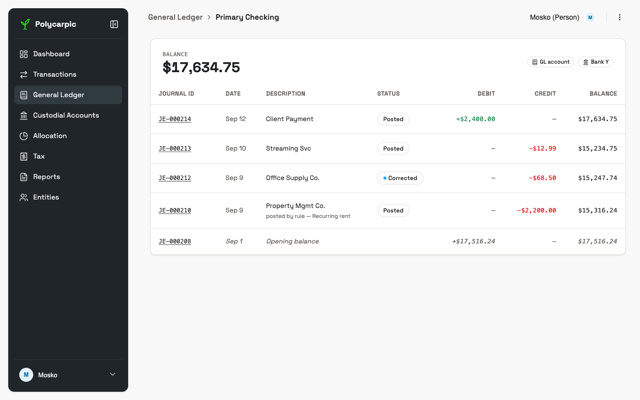
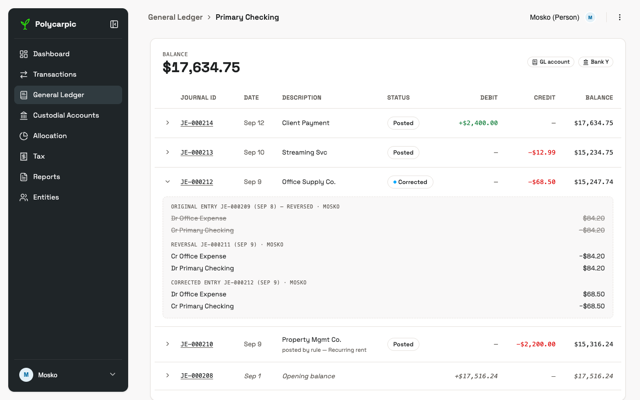
docs(design): register lines expand to the full journal entry
Every line carries the GL card's chevron and legs block; the Corrected
row is drawn open. The block labels name the actor, since the register
has no Actor column. The Journal ID link to the GL stays.

Claude-Session: https://claude.ai/code/session_01ShccjG1wcP7yWMxMF1bSx8

diff --git a/docs/DESIGN/styled-screens/account-register.html b/docs/DESIGN/styled-screens/account-register.html
@@ -8,7 +8,7 @@
 <link rel="stylesheet" href="../screen.css">
 </head>
 <body>
-<!-- Account register (pass 7; styled pass 13). Drill-down from the General Ledger, so the breadcrumb is the multi-crumb example. Most recent first, like Transactions. Each row opens its full journal entry (header + every leg, not just this account's) and leads with that entry's Journal ID, copied on hover; the ID links to the entry's row on the General Ledger Journal entries card. A rule-posted row carries the same Correct entry action as any other posted row. -->
+<!-- Account register (pass 7; styled pass 13). Drill-down from the General Ledger, so the breadcrumb is the multi-crumb example. Most recent first, like Transactions. Each row's chevron opens its full journal entry in the same block as the General Ledger Journal entries card (every leg, not just this account's, plus the correction trail where one exists); the Corrected row is shown open as the reference. The block's labels name the actor, because this table has no Actor column. Each row leads with the entry's Journal ID, copied on hover; the ID links to the entry's row on the General Ledger Journal entries card. A rule-posted row carries the same Correct entry action as any other posted row. -->
 <div class="shell">
   <aside class="sidebar" id="app-sidebar">
     <!-- Brand row (pass 12, Gemini pattern): expanded = logo + wordmark,
@@ -65,17 +65,74 @@
         </div>
         <span style="display:flex; gap:8px;"><span class="badge badge-outline badge-sm"><span class="icon"><svg viewBox="0 0 24 24" fill="none" stroke="currentColor" stroke-width="2" stroke-linecap="round" stroke-linejoin="round"><path d="M4 19.5A2.5 2.5 0 0 1 6.5 17H20"/><path d="M6.5 2H20v20H6.5A2.5 2.5 0 0 1 4 19.5v-15A2.5 2.5 0 0 1 6.5 2z"/><path d="M8 7h6"/><path d="M8 11h8"/></svg></span>GL account</span><span class="badge badge-outline badge-sm"><span class="icon"><svg viewBox="0 0 24 24" fill="none" stroke="currentColor" stroke-width="2" stroke-linecap="round" stroke-linejoin="round"><line x1="3" x2="21" y1="22" y2="22"/><line x1="6" x2="6" y1="18" y2="11"/><line x1="10" x2="10" y1="18" y2="11"/><line x1="14" x2="14" y1="18" y2="11"/><line x1="18" x2="18" y1="18" y2="11"/><polygon points="12 2 20 7 4 7"/></svg></span>Bank Y</span></span>
       </div>
+      <div class="je-body">
       <div class="table-wrap">
       <table class="data-table">
-        <thead><tr><th>Journal ID</th><th>Date</th><th>Description</th><th>Status</th><th class="num">Debit</th><th class="num">Credit</th><th class="num">Balance</th></tr></thead>
+        <thead><tr><th aria-label="Expand"></th><th>Journal ID</th><th>Date</th><th>Description</th><th>Status</th><th class="num">Debit</th><th class="num">Credit</th><th class="num">Balance</th></tr></thead>
         <tbody>
-          <tr><td><span class="je-id"><a class="je-link" href="general-ledger.html#je-000214" title="Open JE-000214 in General Ledger">JE-000214</a><button class="je-copy" type="button" data-id="JE-000214" title="Copy JE-000214" aria-label="Copy journal ID JE-000214"><svg class="je-copy-glyph" viewBox="0 0 24 24" fill="none" stroke="currentColor" stroke-width="2" stroke-linecap="round" stroke-linejoin="round" aria-hidden="true"><rect width="14" height="14" x="8" y="8" rx="2" ry="2"/><path d="M4 16c-1.1 0-2-.9-2-2V4c0-1.1.9-2 2-2h10c1.1 0 2 .9 2 2"/></svg><svg class="je-copied-glyph" viewBox="0 0 24 24" fill="none" stroke="currentColor" stroke-width="2" stroke-linecap="round" stroke-linejoin="round" aria-hidden="true"><path d="M20 6 9 17l-5-5"/></svg></button></span></td><td class="muted nowrap">Sep 12</td><td>Client Payment</td><td><span class="badge badge-outline">Posted</span></td><td class="amount positive">+$2,400.00</td><td class="amount muted">—</td><td class="amount">$17,634.75</td></tr>
-          <tr><td><span class="je-id"><a class="je-link" href="general-ledger.html#je-000213" title="Open JE-000213 in General Ledger">JE-000213</a><button class="je-copy" type="button" data-id="JE-000213" title="Copy JE-000213" aria-label="Copy journal ID JE-000213"><svg class="je-copy-glyph" viewBox="0 0 24 24" fill="none" stroke="currentColor" stroke-width="2" stroke-linecap="round" stroke-linejoin="round" aria-hidden="true"><rect width="14" height="14" x="8" y="8" rx="2" ry="2"/><path d="M4 16c-1.1 0-2-.9-2-2V4c0-1.1.9-2 2-2h10c1.1 0 2 .9 2 2"/></svg><svg class="je-copied-glyph" viewBox="0 0 24 24" fill="none" stroke="currentColor" stroke-width="2" stroke-linecap="round" stroke-linejoin="round" aria-hidden="true"><path d="M20 6 9 17l-5-5"/></svg></button></span></td><td class="muted nowrap">Sep 10</td><td>Streaming Svc</td><td><span class="badge badge-outline">Posted</span></td><td class="amount muted">—</td><td class="amount negative">−$12.99</td><td class="amount">$15,234.75</td></tr>
-          <tr><td><span class="je-id"><a class="je-link" href="general-ledger.html#je-000212" title="Open JE-000212 in General Ledger">JE-000212</a><button class="je-copy" type="button" data-id="JE-000212" title="Copy JE-000212" aria-label="Copy journal ID JE-000212"><svg class="je-copy-glyph" viewBox="0 0 24 24" fill="none" stroke="currentColor" stroke-width="2" stroke-linecap="round" stroke-linejoin="round" aria-hidden="true"><rect width="14" height="14" x="8" y="8" rx="2" ry="2"/><path d="M4 16c-1.1 0-2-.9-2-2V4c0-1.1.9-2 2-2h10c1.1 0 2 .9 2 2"/></svg><svg class="je-copied-glyph" viewBox="0 0 24 24" fill="none" stroke="currentColor" stroke-width="2" stroke-linecap="round" stroke-linejoin="round" aria-hidden="true"><path d="M20 6 9 17l-5-5"/></svg></button></span></td><td class="muted nowrap">Sep 9</td><td>Office Supply Co.</td><td><span class="badge badge-corrected"><span class="badge-dot"></span>Corrected</span></td><td class="amount muted">—</td><td class="amount negative">−$68.50</td><td class="amount">$15,247.74</td></tr>
-          <tr><td><span class="je-id"><a class="je-link" href="general-ledger.html#je-000210" title="Open JE-000210 in General Ledger">JE-000210</a><button class="je-copy" type="button" data-id="JE-000210" title="Copy JE-000210" aria-label="Copy journal ID JE-000210"><svg class="je-copy-glyph" viewBox="0 0 24 24" fill="none" stroke="currentColor" stroke-width="2" stroke-linecap="round" stroke-linejoin="round" aria-hidden="true"><rect width="14" height="14" x="8" y="8" rx="2" ry="2"/><path d="M4 16c-1.1 0-2-.9-2-2V4c0-1.1.9-2 2-2h10c1.1 0 2 .9 2 2"/></svg><svg class="je-copied-glyph" viewBox="0 0 24 24" fill="none" stroke="currentColor" stroke-width="2" stroke-linecap="round" stroke-linejoin="round" aria-hidden="true"><path d="M20 6 9 17l-5-5"/></svg></button></span></td><td class="muted nowrap">Sep 9</td><td>Property Mgmt Co.<div class="row-meta">posted by rule — Recurring rent</div></td><td><span class="badge badge-outline">Posted</span></td><td class="amount muted">—</td><td class="amount negative">−$2,200.00</td><td class="amount">$15,316.24</td></tr>
-          <tr class="opening"><td><span class="je-id"><a class="je-link" href="general-ledger.html#je-000208" title="Open JE-000208 in General Ledger">JE-000208</a><button class="je-copy" type="button" data-id="JE-000208" title="Copy JE-000208" aria-label="Copy journal ID JE-000208"><svg class="je-copy-glyph" viewBox="0 0 24 24" fill="none" stroke="currentColor" stroke-width="2" stroke-linecap="round" stroke-linejoin="round" aria-hidden="true"><rect width="14" height="14" x="8" y="8" rx="2" ry="2"/><path d="M4 16c-1.1 0-2-.9-2-2V4c0-1.1.9-2 2-2h10c1.1 0 2 .9 2 2"/></svg><svg class="je-copied-glyph" viewBox="0 0 24 24" fill="none" stroke="currentColor" stroke-width="2" stroke-linecap="round" stroke-linejoin="round" aria-hidden="true"><path d="M20 6 9 17l-5-5"/></svg></button></span></td><td class="nowrap">Sep 1</td><td>Opening balance</td><td></td><td class="amount">+$17,516.24</td><td class="amount">—</td><td class="amount">$17,516.24</td></tr>
+          <tr><td class="je-toggle-cell"><button class="alloc-disclosure je-toggle" type="button" aria-expanded="false" aria-controls="je-214" aria-label="Show the legs of JE-000214"><span class="icon icon-sm"><svg viewBox="0 0 24 24" fill="none" stroke="currentColor" stroke-width="2" stroke-linecap="round" stroke-linejoin="round" aria-hidden="true"><path d="m6 9 6 6 6-6"/></svg></span></button></td><td><span class="je-id"><a class="je-link" href="general-ledger.html#je-000214" title="Open JE-000214 in General Ledger">JE-000214</a><button class="je-copy" type="button" data-id="JE-000214" title="Copy JE-000214" aria-label="Copy journal ID JE-000214"><svg class="je-copy-glyph" viewBox="0 0 24 24" fill="none" stroke="currentColor" stroke-width="2" stroke-linecap="round" stroke-linejoin="round" aria-hidden="true"><rect width="14" height="14" x="8" y="8" rx="2" ry="2"/><path d="M4 16c-1.1 0-2-.9-2-2V4c0-1.1.9-2 2-2h10c1.1 0 2 .9 2 2"/></svg><svg class="je-copied-glyph" viewBox="0 0 24 24" fill="none" stroke="currentColor" stroke-width="2" stroke-linecap="round" stroke-linejoin="round" aria-hidden="true"><path d="M20 6 9 17l-5-5"/></svg></button></span></td><td class="muted nowrap">Sep 12</td><td>Client Payment</td><td><span class="badge badge-outline">Posted</span></td><td class="amount positive">+$2,400.00</td><td class="amount muted">—</td><td class="amount">$17,634.75</td></tr>
+          <tr class="je-expand" id="je-214" hidden>
+            <td colspan="8">
+              <div class="correction-trail">
+                <div class="trail-label">Entry JE-000214 (Sep 12) · Mosko</div>
+                <div class="trail-row"><span>Dr Primary Checking</span><span>$2,400.00</span></div>
+                <div class="trail-row"><span>Cr Revenue</span><span>−$2,400.00</span></div>
+                <div class="trail-actions"><button class="row-action">Correct entry</button></div>
+              </div>
+            </td>
+          </tr>
+          <tr><td class="je-toggle-cell"><button class="alloc-disclosure je-toggle" type="button" aria-expanded="false" aria-controls="je-213" aria-label="Show the legs of JE-000213"><span class="icon icon-sm"><svg viewBox="0 0 24 24" fill="none" stroke="currentColor" stroke-width="2" stroke-linecap="round" stroke-linejoin="round" aria-hidden="true"><path d="m6 9 6 6 6-6"/></svg></span></button></td><td><span class="je-id"><a class="je-link" href="general-ledger.html#je-000213" title="Open JE-000213 in General Ledger">JE-000213</a><button class="je-copy" type="button" data-id="JE-000213" title="Copy JE-000213" aria-label="Copy journal ID JE-000213"><svg class="je-copy-glyph" viewBox="0 0 24 24" fill="none" stroke="currentColor" stroke-width="2" stroke-linecap="round" stroke-linejoin="round" aria-hidden="true"><rect width="14" height="14" x="8" y="8" rx="2" ry="2"/><path d="M4 16c-1.1 0-2-.9-2-2V4c0-1.1.9-2 2-2h10c1.1 0 2 .9 2 2"/></svg><svg class="je-copied-glyph" viewBox="0 0 24 24" fill="none" stroke="currentColor" stroke-width="2" stroke-linecap="round" stroke-linejoin="round" aria-hidden="true"><path d="M20 6 9 17l-5-5"/></svg></button></span></td><td class="muted nowrap">Sep 10</td><td>Streaming Svc</td><td><span class="badge badge-outline">Posted</span></td><td class="amount muted">—</td><td class="amount negative">−$12.99</td><td class="amount">$15,234.75</td></tr>
+          <tr class="je-expand" id="je-213" hidden>
+            <td colspan="8">
+              <div class="correction-trail">
+                <div class="trail-label">Entry JE-000213 (Sep 10) · Mosko</div>
+                <div class="trail-row"><span>Dr Subscriptions</span><span>$12.99</span></div>
+                <div class="trail-row"><span>Cr Primary Checking</span><span>−$12.99</span></div>
+                <div class="trail-actions"><button class="row-action">Correct entry</button></div>
+              </div>
+            </td>
+          </tr>
+          <tr><td class="je-toggle-cell"><button class="alloc-disclosure je-toggle" type="button" aria-expanded="true" aria-controls="je-212" aria-label="Show the legs of JE-000212"><span class="icon icon-sm"><svg viewBox="0 0 24 24" fill="none" stroke="currentColor" stroke-width="2" stroke-linecap="round" stroke-linejoin="round" aria-hidden="true"><path d="m6 9 6 6 6-6"/></svg></span></button></td><td><span class="je-id"><a class="je-link" href="general-ledger.html#je-000212" title="Open JE-000212 in General Ledger">JE-000212</a><button class="je-copy" type="button" data-id="JE-000212" title="Copy JE-000212" aria-label="Copy journal ID JE-000212"><svg class="je-copy-glyph" viewBox="0 0 24 24" fill="none" stroke="currentColor" stroke-width="2" stroke-linecap="round" stroke-linejoin="round" aria-hidden="true"><rect width="14" height="14" x="8" y="8" rx="2" ry="2"/><path d="M4 16c-1.1 0-2-.9-2-2V4c0-1.1.9-2 2-2h10c1.1 0 2 .9 2 2"/></svg><svg class="je-copied-glyph" viewBox="0 0 24 24" fill="none" stroke="currentColor" stroke-width="2" stroke-linecap="round" stroke-linejoin="round" aria-hidden="true"><path d="M20 6 9 17l-5-5"/></svg></button></span></td><td class="muted nowrap">Sep 9</td><td>Office Supply Co.</td><td><span class="badge badge-corrected"><span class="badge-dot"></span>Corrected</span></td><td class="amount muted">—</td><td class="amount negative">−$68.50</td><td class="amount">$15,247.74</td></tr>
+          <tr class="je-expand" id="je-212">
+            <td colspan="8">
+              <div class="correction-trail">
+                <div class="trail-label">Original entry JE-000209 (Sep 8) — reversed · Mosko</div>
+                <div class="trail-row struck"><span>Dr Office Expense</span><span>$84.20</span></div>
+                <div class="trail-row struck"><span>Cr Primary Checking</span><span>−$84.20</span></div>
+                <div class="trail-label">Reversal JE-000211 (Sep 9) · Mosko</div>
+                <div class="trail-row"><span>Cr Office Expense</span><span>−$84.20</span></div>
+                <div class="trail-row"><span>Dr Primary Checking</span><span>$84.20</span></div>
+                <div class="trail-label">Corrected entry JE-000212 (Sep 9) · Mosko</div>
+                <div class="trail-row"><span>Dr Office Expense</span><span>$68.50</span></div>
+                <div class="trail-row"><span>Cr Primary Checking</span><span>−$68.50</span></div>
+              </div>
+            </td>
+          </tr>
+          <tr><td class="je-toggle-cell"><button class="alloc-disclosure je-toggle" type="button" aria-expanded="false" aria-controls="je-210" aria-label="Show the legs of JE-000210"><span class="icon icon-sm"><svg viewBox="0 0 24 24" fill="none" stroke="currentColor" stroke-width="2" stroke-linecap="round" stroke-linejoin="round" aria-hidden="true"><path d="m6 9 6 6 6-6"/></svg></span></button></td><td><span class="je-id"><a class="je-link" href="general-ledger.html#je-000210" title="Open JE-000210 in General Ledger">JE-000210</a><button class="je-copy" type="button" data-id="JE-000210" title="Copy JE-000210" aria-label="Copy journal ID JE-000210"><svg class="je-copy-glyph" viewBox="0 0 24 24" fill="none" stroke="currentColor" stroke-width="2" stroke-linecap="round" stroke-linejoin="round" aria-hidden="true"><rect width="14" height="14" x="8" y="8" rx="2" ry="2"/><path d="M4 16c-1.1 0-2-.9-2-2V4c0-1.1.9-2 2-2h10c1.1 0 2 .9 2 2"/></svg><svg class="je-copied-glyph" viewBox="0 0 24 24" fill="none" stroke="currentColor" stroke-width="2" stroke-linecap="round" stroke-linejoin="round" aria-hidden="true"><path d="M20 6 9 17l-5-5"/></svg></button></span></td><td class="muted nowrap">Sep 9</td><td>Property Mgmt Co.<div class="row-meta">posted by rule — Recurring rent</div></td><td><span class="badge badge-outline">Posted</span></td><td class="amount muted">—</td><td class="amount negative">−$2,200.00</td><td class="amount">$15,316.24</td></tr>
+          <tr class="je-expand" id="je-210" hidden>
+            <td colspan="8">
+              <div class="correction-trail">
+                <div class="trail-label">Entry JE-000210 (Sep 9) · Rule, Recurring rent</div>
+                <div class="trail-row"><span>Dr Rent</span><span>$2,200.00</span></div>
+                <div class="trail-row"><span>Cr Primary Checking</span><span>−$2,200.00</span></div>
+                <div class="trail-actions"><button class="row-action">Correct entry</button></div>
+              </div>
+            </td>
+          </tr>
+          <tr class="opening"><td class="je-toggle-cell"><button class="alloc-disclosure je-toggle" type="button" aria-expanded="false" aria-controls="je-208" aria-label="Show the legs of JE-000208"><span class="icon icon-sm"><svg viewBox="0 0 24 24" fill="none" stroke="currentColor" stroke-width="2" stroke-linecap="round" stroke-linejoin="round" aria-hidden="true"><path d="m6 9 6 6 6-6"/></svg></span></button></td><td><span class="je-id"><a class="je-link" href="general-ledger.html#je-000208" title="Open JE-000208 in General Ledger">JE-000208</a><button class="je-copy" type="button" data-id="JE-000208" title="Copy JE-000208" aria-label="Copy journal ID JE-000208"><svg class="je-copy-glyph" viewBox="0 0 24 24" fill="none" stroke="currentColor" stroke-width="2" stroke-linecap="round" stroke-linejoin="round" aria-hidden="true"><rect width="14" height="14" x="8" y="8" rx="2" ry="2"/><path d="M4 16c-1.1 0-2-.9-2-2V4c0-1.1.9-2 2-2h10c1.1 0 2 .9 2 2"/></svg><svg class="je-copied-glyph" viewBox="0 0 24 24" fill="none" stroke="currentColor" stroke-width="2" stroke-linecap="round" stroke-linejoin="round" aria-hidden="true"><path d="M20 6 9 17l-5-5"/></svg></button></span></td><td class="nowrap">Sep 1</td><td>Opening balance</td><td></td><td class="amount">+$17,516.24</td><td class="amount">—</td><td class="amount">$17,516.24</td></tr>
+          <tr class="je-expand" id="je-208" hidden>
+            <td colspan="8">
+              <div class="correction-trail">
+                <div class="trail-label">Entry JE-000208 (Sep 1) · System</div>
+                <div class="trail-row"><span>Dr Primary Checking</span><span>$17,516.24</span></div>
+                <div class="trail-row"><span>Cr Owner's Equity</span><span>−$17,516.24</span></div>
+                <div class="trail-actions"><button class="row-action">Correct entry</button></div>
+              </div>
+            </td>
+          </tr>
         </tbody>
       </table>
+      </div>
       </div>
     </div>
   </main>
@@ -88,6 +145,13 @@ document.addEventListener('click', (e) => {
   navigator.clipboard?.writeText(btn.dataset.id);
   btn.classList.add('copied');
   setTimeout(() => btn.classList.remove('copied'), 1200);
+});
+document.addEventListener('click', (e) => {
+  const btn = e.target.closest('.je-toggle');
+  if (!btn) return;
+  const open = btn.getAttribute('aria-expanded') !== 'true';
+  btn.setAttribute('aria-expanded', open);
+  document.getElementById(btn.getAttribute('aria-controls')).hidden = !open;
 });
 </script>
 </body>

diff --git a/docs/DESIGN/index.html b/docs/DESIGN/index.html
@@ -442,8 +442,7 @@ flowchart TD
   act -- open an account --> register[Account register:\nevery line that hit it,\ndate order, running balance]
   map -- click a tile --> register
   act -- custodial badge --> custodial([Custodial Accounts:\nthe mirrored physical account])
-  register --> line[Click a register line]
-  line --> entry([Journal entry:\nevery leg, actor,\nCorrect entry action])
+  register -- line chevron --> entry([Journal entry, expanded in place:\nevery leg, actor,\nCorrect entry action])
   register -- breadcrumb --> tree
   tree --> journal[Journal entries card:\nby date, page size,\ndate range, sort]
   journal -- click opens the entry --> entry
@@ -455,7 +454,7 @@ flowchart TD
     <li><strong>The tree is the GL's own view:</strong> every balance is the ledger's figure. The custodial badge (<code>landmark</code> icon + institution) is a cross-reference to Custodial Accounts, never a second data source; accounts with no physical counterpart (Owner's Equity, Cash in Transit) carry none.</li>
     <li><strong>The tree is a titled card,</strong> "Chart of accounts", with the same header as the Balance sheet map.</li>
     <li><strong>The register is account-scoped and running-balance-shaped;</strong> Transactions is entry-scoped and time-ordered across every account. Different questions, deliberately two screens.</li>
-    <li><strong>A register line opens its full journal entry</strong> — every leg, not just the one that hit this account — with actor attribution and the Correct entry action (flow 5.3).</li>
+    <li><strong>A register line expands to its full journal entry</strong> in the same block as the Journal entries card: every leg, not just the one that hit this account, plus the correction trail where one exists, with actor attribution and the Correct entry action (flow 5.3). Its Journal ID links to the GL card.</li>
     <li><strong>Balance sheet map (prototype):</strong> a nested treemap card above the tree, Assets | Liabilities + Equity as equal halves, each element in its fixed categorical slot; each tile opens its register. Recommendation and limits: design-system-spec.md § General Ledger → Treemap prototype.</li>
     <li><strong>Journal entries card:</strong> below the tree, every posted entry header for the entity, newest first, with page size, date range (default This month, by ruling) and sort. A chevron opens the legs in the same block as Transactions' Posted card. It lists a correction's three entries as three rows; the Posted card rolls them into one.</li>
     <li><strong>Journal ID:</strong> a short per-entity display number, <code>JE-000214</code>, assigned at posting and distinct from the UUID key: gapless, serialized per entity, never reused. It leads the Journal entries card, the Posted card and the register, copied on hover, so any entry can be cited exactly.</li>
@@ -522,7 +521,7 @@ flowchart TD
     <figure class="screen-card"><a href="styled-screens/dashboard.html"><img src="styled-screens/thumbs/dashboard.png" alt="Dashboard screen"></a><figcaption><a href="styled-screens/dashboard.html">Dashboard</a><span>Per-entity financial health: net worth, accounts, summary, empty tax/allocation cards.</span></figcaption></figure>
     <figure class="screen-card"><a href="styled-screens/transactions.html"><img src="styled-screens/thumbs/transactions.png" alt="Transactions screen"></a><figcaption><a href="styled-screens/transactions.html">Transactions</a><span>Exceptions / Pending / Posted accordions; the Plaid review-and-match inbox, split grid, bulk bar, Posted rows led by Journal ID, journal-entry modal.</span></figcaption></figure>
     <figure class="screen-card"><a href="styled-screens/general-ledger.html"><img src="styled-screens/thumbs/general-ledger.png" alt="General Ledger screen"></a><figcaption><a href="styled-screens/general-ledger.html">General Ledger</a><span>Balance-sheet treemap (prototype), then the Chart of accounts card with custodial cross-reference badges, each account opening its register, then the Journal entries card with page size, date range and sort.</span></figcaption></figure>
-    <figure class="screen-card"><a href="styled-screens/account-register.html"><img src="styled-screens/thumbs/account-register.png" alt="Account register screen"></a><figcaption><a href="styled-screens/account-register.html">Account register</a><span>Drill-down from the GL: multi-crumb breadcrumb, Journal ID plus Dr/Cr/running-balance table, Corrected and rule-posted rows.</span></figcaption></figure>
+    <figure class="screen-card"><a href="styled-screens/account-register.html"><img src="styled-screens/thumbs/account-register.png" alt="Account register screen"></a><figcaption><a href="styled-screens/account-register.html">Account register</a><span>Drill-down from the GL: multi-crumb breadcrumb, Journal ID plus Dr/Cr/running-balance table, each line expanding to its full entry; Corrected and rule-posted rows.</span></figcaption></figure>
     <figure class="screen-card"><a href="styled-screens/custodial-accounts.html"><img src="styled-screens/thumbs/custodial-accounts.png" alt="Custodial Accounts screen"></a><figcaption><a href="styled-screens/custodial-accounts.html">Custodial Accounts</a><span>Totals card, then per-account cards: market value, book value and cash side by side, link health, reconciliation, a lots sub-card; the provider-item dialog shown open.</span></figcaption></figure>
     <figure class="screen-card"><a href="styled-screens/allocation.html"><img src="styled-screens/thumbs/allocation.png" alt="Allocation screen"></a><figcaption><a href="styled-screens/allocation.html">Allocation</a><span>Actual vs. target by asset class with target markers, each class pulling down to its sub-categories and drilling to its lots; two-level target editor.</span></figcaption></figure>
     <figure class="screen-card"><a href="styled-screens/tax.html"><img src="styled-screens/thumbs/tax.png" alt="Tax screen"></a><figcaption><a href="styled-screens/tax.html">Tax</a><span>Per entity and jurisdiction: pending liability and safe-harbor gap side by side, status tier, installment timeline, prepaid-tax account; Post your payment.</span></figcaption></figure>

diff --git a/docs/DESIGN/design-system-spec.md b/docs/DESIGN/design-system-spec.md
@@ -389,7 +389,7 @@ Settings/Notifications carry a `.proposed-tag` badge in the styled screens — v
 |---|---|---|---|
 | 1 | **Dashboard** | — | Cross-cutting summary — net worth, cash flow, tax, allocation snapshot. |
 | 2 | **Transactions** | the journal and import status | The time-ordered journal: three accordion cards in urgency order — Exceptions, Pending, Posted. The Pending card is the bank-feed review/match inbox (see § Transactions workflow). An **account filter** above the cards scopes all three at once; the sidebar lands on **All Transactions** (every custodial account), and the popover lists the custodial accounts as Custodial Accounts names them. Every row carries a muted **source line** under the payee — `landmark` icon + `<account> · <institution> via <provider>` — omitted when the filter names one account. Posted rows lead with the **Journal ID** (§ General Ledger: tree & register). Import stats/status and the Sync Transactions / New entry actions live here; there is no separate "Import" item. Not the chart of accounts; see General Ledger for that. |
-| 3 | **General Ledger** | the GL side of accounts | Opens to a chart-of-accounts **tree** (category → account → sub-account, balances, a custodial marker on accounts that mirror a physical account). Clicking an account opens that account's **register** — a separate page, breadcrumbed back to the tree — showing every line that hit it, in date order, with a running balance; each line links to its full journal entry. Below the tree, a **Journal entries** card lists every posted entry header for the entity by date, with page size, date range and sort. The register is account-scoped and running-balance-shaped; Transactions is entry-scoped and time-ordered — genuinely different questions, not two views of one screen. |
+| 3 | **General Ledger** | the GL side of accounts | Opens to a chart-of-accounts **tree** (category → account → sub-account, balances, a custodial marker on accounts that mirror a physical account). Clicking an account opens that account's **register** — a separate page, breadcrumbed back to the tree — showing every line that hit it, in date order, with a running balance; each line expands to its full journal entry, and its Journal ID links to the GL card. Below the tree, a **Journal entries** card lists every posted entry header for the entity by date, with page size, date range and sort. The register is account-scoped and running-balance-shaped; Transactions is entry-scoped and time-ordered — genuinely different questions, not two views of one screen. |
 | 4 | **Custodial Accounts** | the physical side of accounts, and securities | The physical-account view — per-institution cards, each showing **market value (EOD prices), book value (GL cost basis) and cash balance side by side, left to right, with Unrealized**, plus reconciliation status against the GL; a totals card sums the three figures across accounts. Each account that holds securities has a **lots sub-card**: a pull-down per security showing its lots and short/long/total current gain or loss, summed per security and per account. New custodial accounts and provider links are created via a New provider item dialog on this screen (aggregator, manual, or file-import source type; a discovered-account mapping step; token refresh; unlink, with the ≤24h revocation-lag note on the Vercel target). Link health (expired token, lost access, stale) shows as a badge on the card and a banner on Transactions. Sync here pulls positions and balances. |
 | 5 | **Allocation** | allocation vs. target | A dedicated actual-vs-target page. |
 | 6 | **Tax** | the tax liability view | Per entity and jurisdiction: pending liability, the safe-harbor gap and its status tier, next due date, the custodial prepaid-tax account, the year's installment timeline, and the "Post your payment" action (never "Pay"). The Dashboard's Pending tax liability card links here (§ Allocation, Reports & Settings → Tax; flow 5.4). |
@@ -482,7 +482,7 @@ Any gate failure keeps the item in Pending — there is no partial post and no s
 General Ledger opens to a **chart-of-accounts tree** in a titled card, "Chart of accounts", with the same card header as the Balance sheet map above it — category → account → sub-account, each row showing its balance. Clicking an account opens that account's **register** as its own page, breadcrumbed back to the tree. Below the tree sits the **Journal entries** card.
 
 - **The custodial marker.** A tree row for a GL account that mirrors a physical custodial account (e.g. "Primary Checking") carries a small custodial badge (`landmark` icon + institution) — a cross-reference only, not a second data source; the figure shown is always the GL's own balance. Not every account has one (Owner's Equity, Cash in Transit never do).
-- **The register is account-scoped and running-balance-shaped:** every line that hit this one account, in date order, with a running balance, each linking to its full journal entry (every leg, not just the one that hit this account) — the same "every number earns trust" principle as the Dashboard.
+- **The register is account-scoped and running-balance-shaped:** every line that hit this one account, in date order, with a running balance. Each line's chevron expands to its full journal entry in the same `.correction-trail` block as the Journal entries card (every leg, not just the one that hit this account, plus the correction trail where one exists), and its Journal ID links to the GL card. The register has no Actor column, so the block's labels name the actor. The same "every number earns trust" principle as the Dashboard.
 - **Distinct from Transactions, deliberately.** Transactions (§ Transactions workflow, above) is entry-scoped and time-ordered across every account in the entity — the journal. The register is the opposite cut: one account, every entry that ever touched it. Neither view replaces the other.
 - **Journal entries card.** Posted entry headers, not lines, listed by date, newest first; same-date entries order by Journal ID. This is the audit view, so it lists every header: a correction's original, reversal and corrected entry are three rows here, where Transactions' Posted card rolls them into one Corrected row. Columns: Journal ID, Date, Description, Actor (a user, a rule with its name, or System), Status (Posted, Corrected, Reversed; § Correcting a posted entry), Amount. Amount is the entry's sum of debits, unsigned, because an entry has no single direction. Controls sit in one row at the card top: **date range** (default This month, by ruling: it matches the month-to-date figures in the tree above), **sort** (date, amount or Journal ID, each both ways) and the normal **show N** limit; a paged footer closes the card. The title's count reads "<in range> of <all> entries". A chevron opens an entry's legs in the same `.correction-trail` block as the Posted card, a Corrected row showing its whole chain. Reversal rows name each other by Journal ID. **Correct entry** sits in the opened block of a live Posted entry; an entry already reversed, and the reversal itself, offer none. Viewers see no Correct entry.
 - **Journal ID.** The exact reference for a posted entry: a short per-entity display number, `JE-000214`, assigned at posting: gapless, serialized per entity, never reused (the mechanism is ARCH's). A reversal and a corrected entry each take their own number. It is distinct from the entry's UUID key, which is never shown, and the data model has to add it (ARCH keys every row by UUID). It leads every journal-entries view (Journal entries card, Transactions' Posted card, account register), in the mono face, with a Lucide `copy` control on row hover or keyboard focus, always visible on touch; a corrected row carries the corrected entry's ID. It also labels each block of an opened entry, and the journal-entry modal shows it read-only: a new entry reads "Journal ID assigned at posting", Correct entry shows the ID being corrected, and the "entry posted" toast names the new number. The ID orders by posting; Date is the entry date, so a backdated entry sorts differently on the two.
@@ -743,7 +743,7 @@ Every icon in use is named above. Add a row whenever a new control lands, rather
 | Dashboard | `dashboard.html` | sidebar | "more" menu, avatar popover |
 | Transactions | `transactions.html` | sidebar | "more" menu, expanded Pending row, split grid, bulk bar, journal-entry modal |
 | General Ledger | `general-ledger.html` | sidebar | expanded Journal entries row, date range popover |
-| Account register | `account-register.html` | sidebar (multi-crumb) | — |
+| Account register | `account-register.html` | sidebar (multi-crumb) | expanded register line |
 | Custodial Accounts | `custodial-accounts.html` | sidebar | lots sub-card (AAPL pulled down), provider-item dialog |
 | Allocation | `allocation.html` | sidebar | — |
 | Tax | `tax.html` | sidebar | Federal tab, danger tier (Q3 installment $200 short) |
@@ -858,7 +858,7 @@ This mirrors ARCH §2.4's screen→DTO table exactly — the DESIGN-owned half o
 | Transactions — three accordion cards (Exceptions, Pending, Posted), each with a "show N" limit | Aged CIT exceptions + link-health banners; the Pending review/match inbox (locked custodial leg + suggested offset leg); posted, paged journal entries with Journal IDs and correction badges; import stats/status | `ExceptionList`, `PendingInbox`, `ImportStatus` → posting + import; `PostedJournal` → ledger | M2 (CIT exceptions in M3) |
 | Journal-entry modal (header + legs) — split, group, manual "+ New entry", "Correct entry" | Entry draft in, posting-gate result out | `EntryDraft` in, `GateResult` out → posting | M2 |
 | General Ledger — chart-of-accounts tree | Category → account → sub-account, balances, custodial marker | `ChartTree` → ledger | M2 |
-| General Ledger — account register page | Lines on one account, date order, running balance, Journal ID, link to entry | `AccountRegister` → ledger | M2 |
+| General Ledger — account register page | Lines on one account, date order, running balance, Journal ID, each line's full entry (every leg, correction trail, actor), link to entry | `AccountRegister` → ledger | M2 |
 | General Ledger — Journal entries card | Posted entry headers by date: Journal ID, description, actor, status, sum of debits, legs; date range, sort, paging | `JournalEntries` → ledger | M2 |
 | Custodial Accounts | Balance, reconciliation status, link-health badge; lots sub-card per security (lots, short/long/total unrealized gain, per lot and summed) | `CustodialAccountList` → posting + import; `LotsCard` → securities | M3 (lots card at M4) |
 | Provider-item dialog (New provider item on Custodial Accounts) | Source type (aggregator / broker API / file / manual); discovered accounts mapped to custodial accounts; token refresh; unlink + revocation-lag note | `ProviderItem` → import | M2 (fake + file); real aggregators at 1.0 |

diff --git a/docs/DESIGN/flows/general-ledger-flow.md b/docs/DESIGN/flows/general-ledger-flow.md
@@ -11,8 +11,7 @@ flowchart TD
   act -- open an account --> register[Account register:\nevery line that hit it,\ndate order, running balance]
   map -- click a tile --> register
   act -- custodial badge --> custodial([Custodial Accounts:\nthe mirrored physical account])
-  register --> line[Click a register line]
-  line --> entry([Journal entry:\nevery leg, actor,\nCorrect entry action])
+  register -- line chevron --> entry([Journal entry, expanded in place:\nevery leg, actor,\nCorrect entry action])
   register -- breadcrumb --> tree
   tree --> journal[Journal entries card:\nby date, page size,\ndate range, sort]
   journal -- click opens the entry --> entry
@@ -25,7 +24,7 @@ flowchart TD
 - **The tree is the GL's own view:** every balance is the ledger's figure. The custodial badge (`landmark` icon + institution) is a cross-reference to Custodial Accounts, never a second data source; accounts with no physical counterpart (Owner's Equity, Cash in Transit) carry none.
 - **The tree is a titled card,** "Chart of accounts", with the same header as the Balance sheet map.
 - **The register is account-scoped and running-balance-shaped;** Transactions is entry-scoped and time-ordered across every account. Different questions, deliberately two screens.
-- **A register line opens its full journal entry** — every leg, not just the one that hit this account — with actor attribution and the Correct entry action (flow 5.3).
+- **A register line expands to its full journal entry** in the same block as the Journal entries card: every leg, not just the one that hit this account, plus the correction trail where one exists, with actor attribution and the Correct entry action (flow 5.3). Its Journal ID links to the GL card.
 - **Balance sheet map (prototype):** a nested treemap card above the tree, Assets | Liabilities + Equity as equal halves; each tile opens its register. Recommendation and limits: design-system-spec.md § General Ledger → Treemap prototype.
 - **Journal entries card:** below the tree, every posted entry header for the entity, newest first, with page size, date range (default This month, by ruling) and sort. A chevron opens the legs in the same block as Transactions' Posted card. It lists a correction's three entries as three rows; the Posted card rolls them into one.
 - **Journal ID:** a short per-entity display number, `JE-000214`, assigned at posting and distinct from the UUID key: gapless, serialized per entity, never reused. It leads the Journal entries card, the Posted card and the register, copied on hover, so any entry can be cited exactly.
